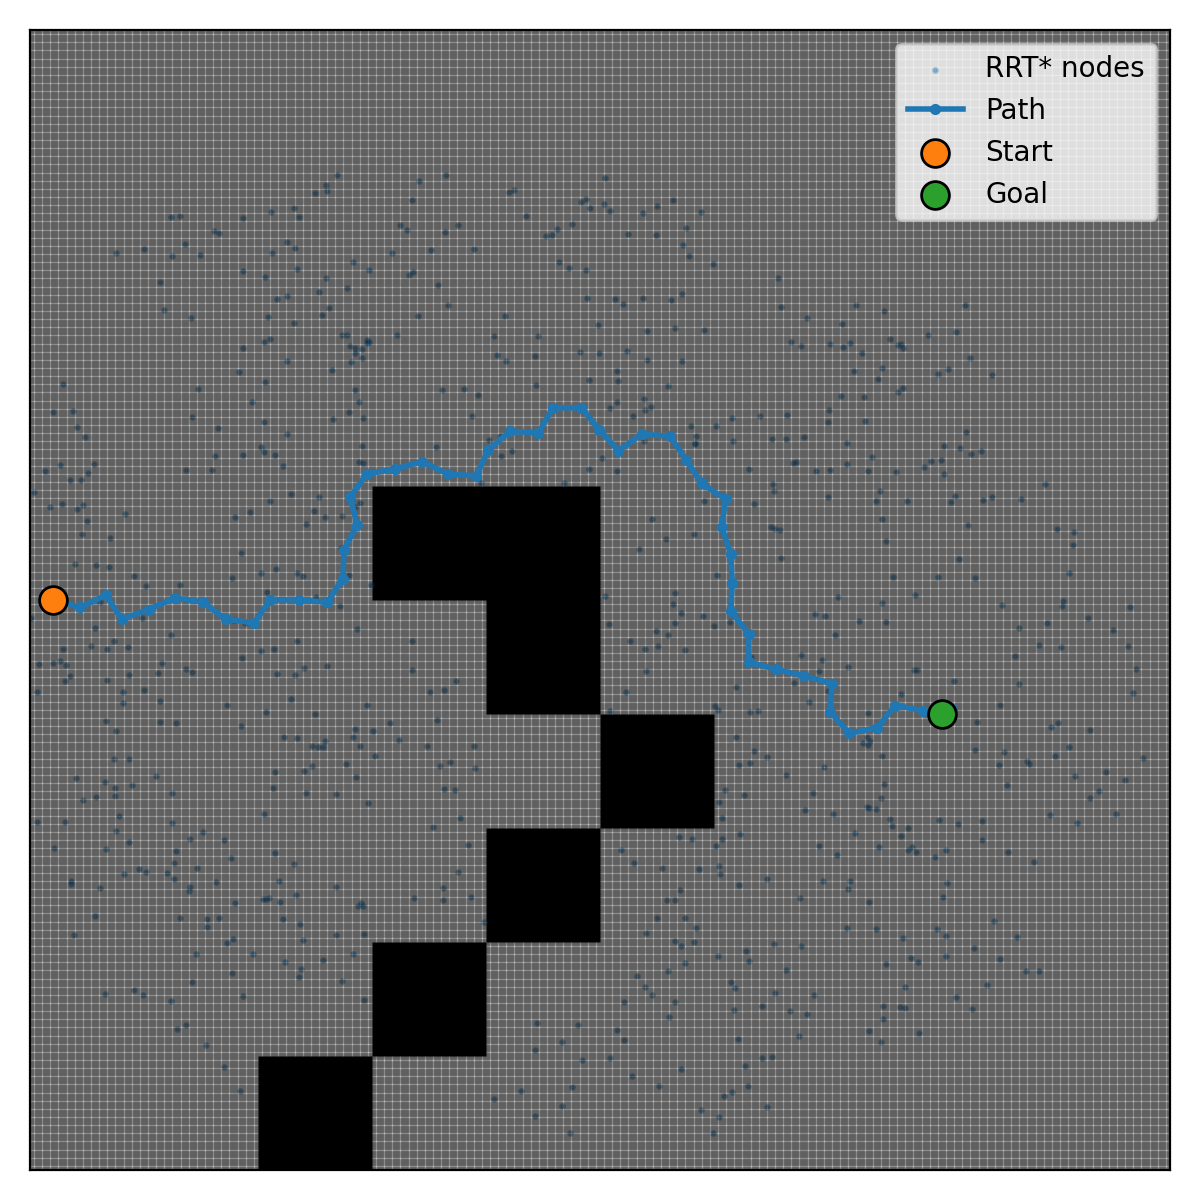
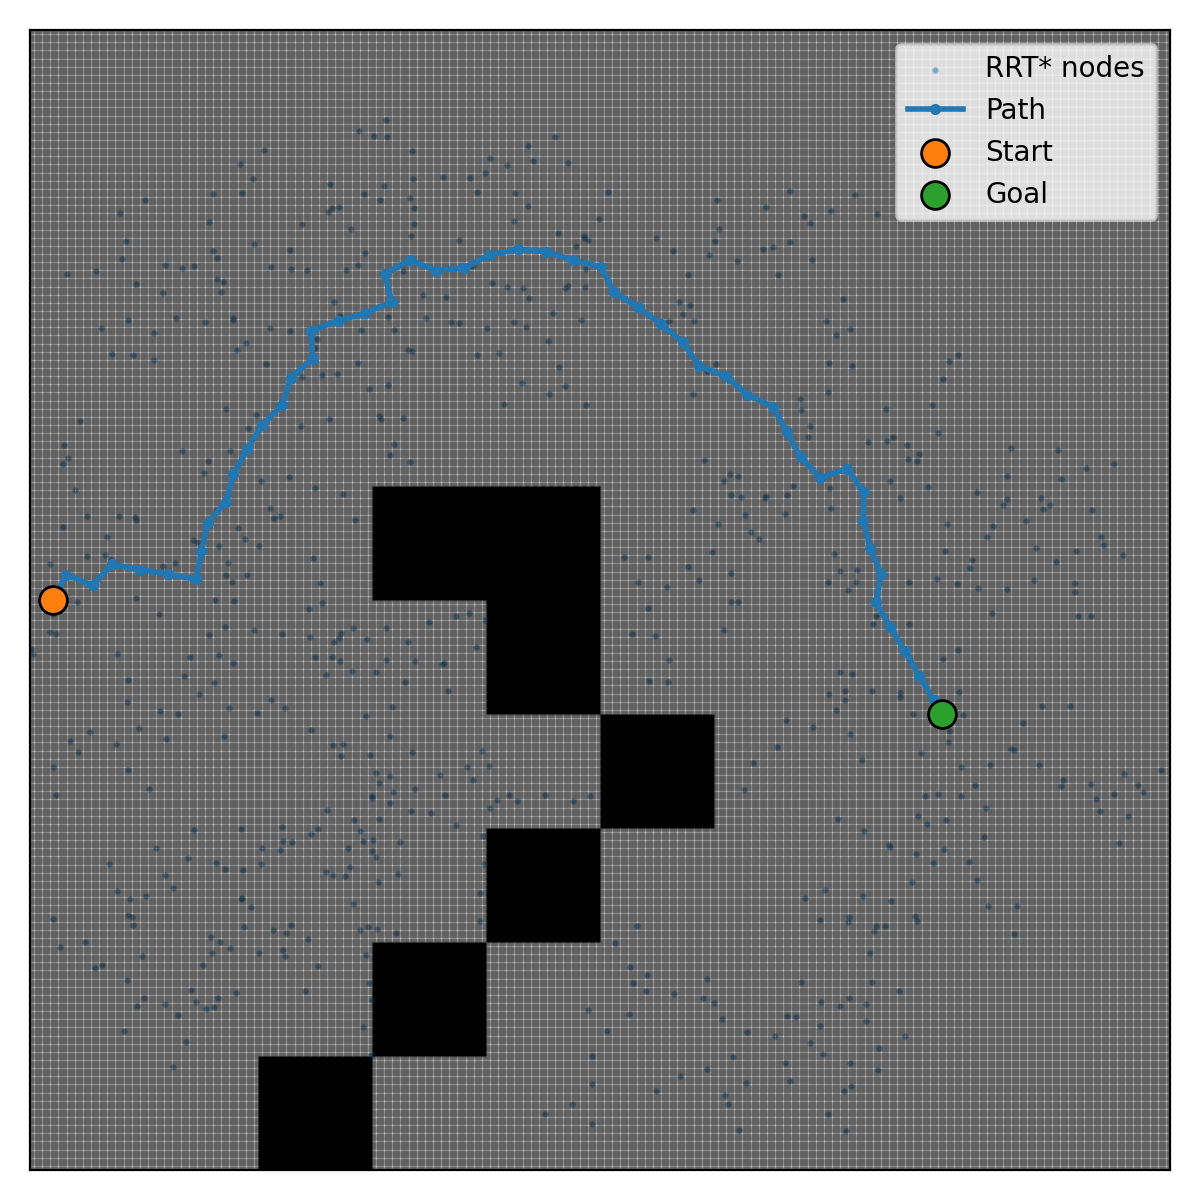
first iteration of back tracing, red vis line added

diff --git a/plan.py b/plan.py
@@ -6,8 +6,8 @@ from typing import List
 from operator import itemgetter
 import math
 #GUI visualizer
-import pyqtgraph as pg
-from pyqtgraph.Qt import QtWidgets, QtCore
+# import pyqtgraph as pg
+# from pyqtgraph.Qt import QtWidgets, QtCore
 from collections import deque
 import time
 import cv2
@@ -74,6 +74,7 @@ WINDOW_NAME = "bev"
 
 m = 1 #mass
 delta_t = 1
+WHEELBASE = 1
 
 
 """
@@ -138,7 +139,7 @@ def get_control_path(controls, init_state):
     positions = []#np.array([], dtype=np.float64)
     positions.append(position.copy())
     #acceleration, angle is contr
-    print("controls", controls)
+    # print("controls", controls)
     #pdb.set_trace()
     for a, steering_angle in controls:
         distance_traveled = delta_t * velocity + 1/2 * a * delta_t ** 2
@@ -163,6 +164,63 @@ def get_control_path(controls, init_state):
     return positions
 
 
+ARC_FIDELITY = 20
+#same as get_control_path but for the back wheels
+#treating the car as a line, front wheels and back wheels
+#CURRENT MODEL: front wheels snap to angle
+def get_control_path_back(controls, init_state):
+    position = np.array([init_state[0], init_state[1]], dtype = np.float64)
+    heading = 0
+    velocity = 0
+
+    density = 6
+    positions = []#np.array([], dtype=np.float64)
+    positions.append(position)
+    #acceleration, angle is contr
+    # print("controls", controls)
+    #pdb.set_trace()
+
+    def in_vehicle_coordinate_system(x, y):
+        x_transformed = position[0] + np.cos(heading) * x + np.cos(heading + math.pi / 2) * y
+        y_transformed = position[1] + np.sin(heading) * x + np.sin(heading + math.pi / 2) * y
+        return np.array([x_transformed, y_transformed], dtype = np.float64)
+
+    
+
+    for a, steering_angle in controls:
+        total_distance = delta_t * velocity + 1/2 * a * delta_t ** 2
+        #print("distance_traveled", distance_traveled)
+        #pdb.set_trace()
+        curvature = (1 / WHEELBASE) * np.tan(steering_angle)
+        
+        # sin x / x
+        def sinc(x):
+            # numpy uses the normalized sinc function
+            return np.sinc(x / np.pi)
+        
+        # Calculates position of vehicle after it travels a given distance
+        def calculate_arc(distance_travelled):
+            return in_vehicle_coordinate_system(
+                distance_travelled * sinc(distance_travelled * curvature),
+                1/2 * distance_travelled ** 2 * curvature * sinc(1/2 * distance_travelled * curvature) ** 2
+            )
+        
+        for i in range(ARC_FIDELITY):
+            current_distance = (i / ARC_FIDELITY) * total_distance
+
+            current_pos = calculate_arc(current_distance)
+
+            positions.append(current_pos)
+        
+        heading_change = curvature * total_distance
+        final_position = calculate_arc(total_distance)
+
+        heading += heading_change
+        position = final_position
+    
+    return positions
+
+    
 
     
 def fill_bev_matrix(data: List) -> np.ndarray:
@@ -226,7 +284,7 @@ def plan(input_queue):
             coord_order="rc",
         )
 
-        print(f"path: {path}")
+        # print(f"path: {path}")
         controls, init_state = None, None
         if path is not None: #sometimes there is no vialable path so check this
             full_states = get_full_state(path)
@@ -237,9 +295,9 @@ def plan(input_queue):
         vis_controls = None
         if controls: 
             controls_path = get_control_path(controls, init_state)
-            print(f"path recreated from controls: {controls_path}")
-            
-            
+            # print(f"path recreated from controls: {controls_path}")
+            vehicle_back_path = get_control_path_back(controls, init_state)
+            print(f"path recreated from controls for back wheels: {vehicle_back_path}")
             
         overlay = visualize_plan(
             bev,
@@ -247,6 +305,7 @@ def plan(input_queue):
             goal_rc=goal,
             nodes_rc=nodes, 
             path_rc=path,
+            vehicle_rc=vehicle_back_path,
             node_radius=3,
             max_edge_len=20.0,
             branch_alpha=0.8,

diff --git a/visualizer.py b/visualizer.py
@@ -23,7 +23,8 @@ def visualize_plan(
     maze_uint8: np.ndarray,     
     start_rc, goal_rc,           
     nodes_rc=None,             
-    path_rc=None,             
+    path_rc=None, 
+    vehicle_rc=None,            
     scale=1,
     node_stride=2,           
     node_radius=2,          
@@ -51,6 +52,7 @@ def visualize_plan(
         poly = np.stack([p[:, 1], p[:, 0]], axis=1)
         poly = np.round(poly).astype(np.int32).reshape(-1, 1, 2)
         cv2.polylines(overlay, [poly], False, (255, 0, 0), thickness=4, lineType=cv2.LINE_AA) #OUR CONTROL RECONSTRUCTION IS BLUE
+
         
     if nodes_rc is not None and len(nodes_rc) > 1:
         pts = np.asarray(nodes_rc, dtype=np.float32)
@@ -91,7 +93,15 @@ def visualize_plan(
         poly = np.round(poly).astype(np.int32).reshape(-1, 1, 2)
         cv2.polylines(out, [poly], False, (0, 255, 0), thickness=4, lineType=cv2.LINE_AA)
 
- 
+    if vehicle_rc is not None and len(vehicle_rc) > 1:
+        p_veh = np.asarray(vehicle_rc, dtype=np.float32)
+        poly_veh = np.stack([p_veh[:, 1], p_veh[:, 0]], axis=1)
+        poly_veh = np.round(poly_veh).astype(np.int32).reshape(-1, 1, 2)
+        cv2.polylines(out, [poly_veh], False, (0, 0, 255), thickness=4, lineType=cv2.LINE_AA)
+        # poly_vehicle = np.stack([p_veh[:, 1], p_veh[:, 0]], axis=1)
+        # poly_vehicle = np.round(poly_vehicle).astype(np.int32).reshape(-1, 1, 2)
+        # cv2.polylines(out, [poly_vehicle], False, (0, 0, 255), thickness=4, lineType=cv2.LINE_AA)
+    
     sx, sy = rc_to_xy(start_rc)
     gx, gy = rc_to_xy(goal_rc)
     cv2.circle(out, (sx, sy), 7, (255, 0, 0), -1, lineType=cv2.LINE_AA)
@@ -105,12 +115,20 @@ def visualize_plan(
     legend_x, legend_y = 10, 20
     line_gap = 25
 
-    # Blue line (reconstructed controls)
+
+    # Red line (back wheel reconstructed controls)
+    cv2.line(out, (legend_x, legend_y + line_gap * 2), 
+             (legend_x + 30, legend_y + line_gap*2), (0, 0, 255), 2)
+    cv2.putText(out, "Back Wheel Reconstructed (controls)",
+                (legend_x + 40, legend_y + line_gap*2 + 5),
+                cv2.FONT_HERSHEY_SIMPLEX, 0.6, (0, 0, 255), 2, cv2.LINE_AA)
+
+    # Blue line (point mass reconstructed controls)
     cv2.line(out, (legend_x, legend_y), (legend_x + 30, legend_y), (255, 0, 0), 4)
-    cv2.putText(out, "Reconstructed (controls)", 
+    cv2.putText(out, "Point Mass Reconstructed (controls)", 
                 (legend_x + 40, legend_y + 5),
                 cv2.FONT_HERSHEY_SIMPLEX, 0.6, (255, 0, 0), 2, cv2.LINE_AA)
-
+    
     # Green line (RRT* path)
     cv2.line(out, (legend_x, legend_y + line_gap), 
                 (legend_x + 30, legend_y + line_gap), (0, 255, 0), 4)

diff --git a/main.py b/main.py
@@ -48,10 +48,11 @@ def main():
 
     #maze_map = [[0] * 100 for _ in range(10)]
     
-    for r in range(len(maze_map)):
-        for c in range(len(maze_map[0])):
-            if maze_map[r][c]:
-                print((r,c))
+    # for r in range(len(maze_map)):
+    #     for c in range(len(maze_map[0])):
+    #         if maze_map[r][c]:
+    #             # print((r,c))
+    #             pass
     
     
     #(y,x)
